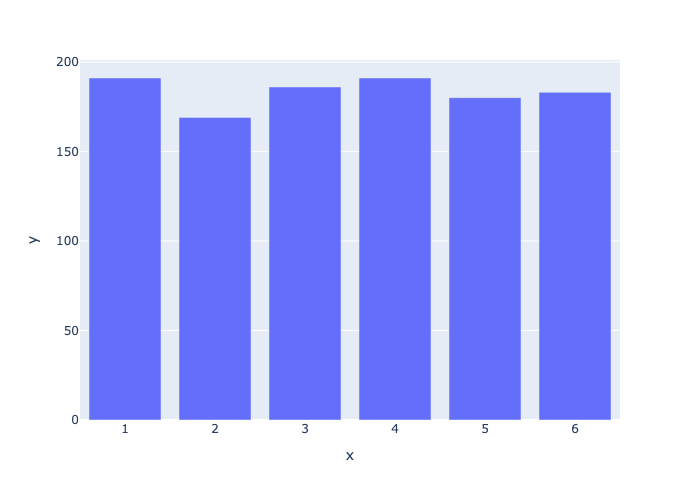
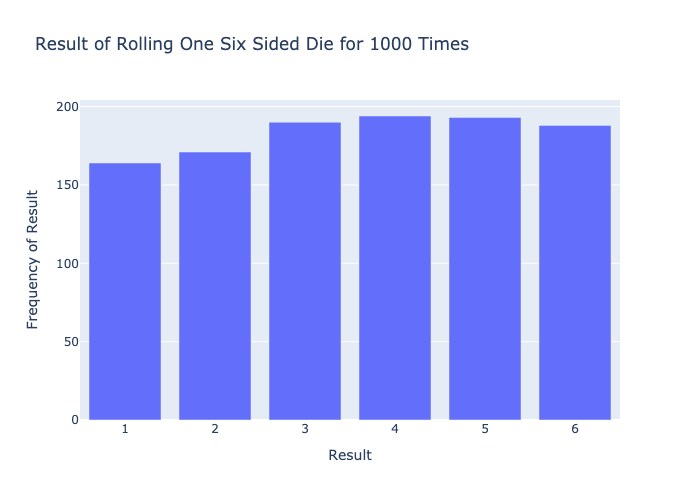
update labels

diff --git a/die_plot.py b/die_plot.py
@@ -18,6 +18,8 @@ for value in poss_results:
     frequencies.append(frequency)
 print(frequencies)
 
-fig = px.bar(x= poss_results, y = frequencies)
+title = "Result of Rolling One Six Sided Die for 1000 Times"
+labels = {'x':'Result', 'y':'Frequency of Result'}
+fig = px.bar(x= poss_results, y = frequencies, title=title, labels=labels)
 fig.write_image("histogram_die.png")
 
